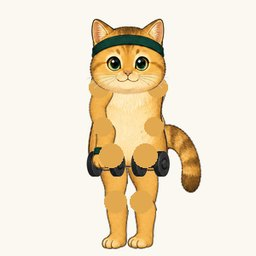
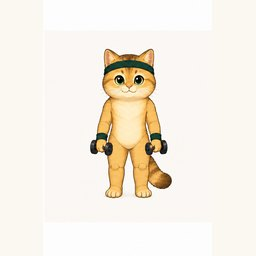
fix: correct exercise guide poses

Changed region(s): [[0.3125, 0.0625, 0.8125, 1.0]]

diff --git a/miniprogram/tests/exercise-guide-assets.test.ts b/miniprogram/tests/exercise-guide-assets.test.ts
@@ -153,6 +153,25 @@ describe('original golden-cat static exercise breakdown pack', () => {
       .toEqual([0, 8, 3])
     expect(byCode.get('STANDING_WALL_CALF_RAISE')?.stages.map((stage) => stage.sourceGridIndex))
       .toEqual([0, 1, 2])
+
+    const curatedTriptychs = new Map([
+      ['DUMBBELL_LATERAL_RAISE', 'dumbbell-lateral-raise-sprite-v4.png'],
+      ['SINGLE_ARM_DUMBBELL_LATERAL_RAISE', 'single-arm-dumbbell-lateral-raise-sprite-v4.png'],
+      ['CABLE_LATERAL_RAISE', 'cable-lateral-raise-sprite-v4.png'],
+      ['CABLE_TRICEPS_PUSHDOWN', 'cable-triceps-pushdown-sprite-v4.png'],
+      ['DUMBBELL_OVERHEAD_TRICEPS_EXTENSION', 'dumbbell-overhead-triceps-extension-sprite-v4.png'],
+      ['DUMBBELL_LYING_TRICEPS_EXTENSION', 'dumbbell-lying-triceps-extension-sprite-v4.png'],
+      ['CABLE_REVERSE_FLY', 'cable-reverse-fly-sprite-v4.png'],
+      ['MACHINE_SHRUG', 'machine-shrug-sprite-v4.png'],
+    ])
+    for (const [exerciseCode, sourceFile] of curatedTriptychs) {
+      const stages = byCode.get(exerciseCode)?.stages ?? []
+      expect(stages, exerciseCode).toHaveLength(3)
+      expect(stages.map((stage) => stage.sourceFile), exerciseCode)
+        .toEqual(Array(3).fill(`assets-source/exercise-guides/${sourceFile}`))
+      expect(stages.map((stage) => stage.sourceGridIndex), exerciseCode)
+        .toEqual([undefined, undefined, undefined])
+    }
   })
 
   it('rebuilds the complete static pack byte-for-byte from the approved locked rig', () => {

diff --git a/miniprogram/scripts/build_static_exercise_guides.py b/miniprogram/scripts/build_static_exercise_guides.py
@@ -39,6 +39,20 @@ BENCH_PRESS_SOURCE_FRAMES = (
     SOURCE_ROOT / "bench-press-v8-v7based/frame-100-top.png",
 )
 
+CURATED_TRIPTYCH_SOURCES: dict[str, Path] = {
+    "dumbbell-lateral-raise": SOURCE_ROOT / "dumbbell-lateral-raise-sprite-v4.png",
+    "single-arm-dumbbell-lateral-raise": SOURCE_ROOT
+    / "single-arm-dumbbell-lateral-raise-sprite-v4.png",
+    "cable-lateral-raise": SOURCE_ROOT / "cable-lateral-raise-sprite-v4.png",
+    "cable-triceps-pushdown": SOURCE_ROOT / "cable-triceps-pushdown-sprite-v4.png",
+    "dumbbell-overhead-triceps-extension": SOURCE_ROOT
+    / "dumbbell-overhead-triceps-extension-sprite-v4.png",
+    "dumbbell-lying-triceps-extension": SOURCE_ROOT
+    / "dumbbell-lying-triceps-extension-sprite-v4.png",
+    "cable-reverse-fly": SOURCE_ROOT / "cable-reverse-fly-sprite-v4.png",
+    "machine-shrug": SOURCE_ROOT / "machine-shrug-sprite-v4.png",
+}
+
 
 @dataclass(frozen=True)
 class StageSpec:
@@ -319,6 +333,20 @@ def source_image(
     stage_index: int,
     variant: str = "",
 ) -> tuple[Image.Image, Path, int | None]:
+    triptych_path = CURATED_TRIPTYCH_SOURCES.get(exercise_slug)
+    if triptych_path is not None:
+        with Image.open(triptych_path) as opened:
+            triptych = opened.convert("RGB")
+        left = round(stage_index * triptych.width / 3)
+        right = round((stage_index + 1) * triptych.width / 3)
+        inset_ratio = 0.03 if exercise_slug == "cable-triceps-pushdown" else 0.01
+        inset = max(2, round((right - left) * inset_ratio))
+        return (
+            triptych.crop((left + inset, inset, right - inset, triptych.height - inset)),
+            triptych_path,
+            None,
+        )
+
     if renderer in {"dumbbell-row", "biceps-curl", "lateral-raise", "triceps-extension", "rear-delt", "shrug"}:
         stage = stages_for(renderer)[stage_index]
         rendered = RENDERERS[renderer](rig_parts(), stage.phase, variant)

diff --git a/miniprogram/scripts/build_identity_locked_exercise_guides.py b/miniprogram/scripts/build_identity_locked_exercise_guides.py
@@ -1040,14 +1040,13 @@ def lateral_raise(parts: PartLibrary, phase: float, variant: str) -> RenderedFra
 
 def shrug(parts: PartLibrary, phase: float, variant: str) -> RenderedFrame:
     base = standing_front_pose(5, -5, 5, -5)
-    lift = 6 * phase
+    lift = 10 * phase
 
     def raised(limb: Limb) -> Limb:
         return tuple((point[0], point[1] - lift) for point in limb)  # type: ignore[return-value]
 
     pose = replace(
         base,
-        head_center=(base.head_center[0], base.head_center[1] - lift * 0.25),
         left_arm=raised(base.left_arm),
         right_arm=raised(base.right_arm),
     )
